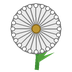
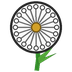
feat: 씨앗·새싹·잡초·민들레 그림을 잘 보이게 다시 그림
- 씨앗: 더 작게, 대각선으로 기운 모양
- 새싹: 흙 위의 밝은 초록 떡잎 두 장, 진한 테두리
- 잡초: 진한 올리브색 뾰족한 풀 덤불 (새싹과 한눈에 구분)
- 민들레: 테두리를 진하게 한 흰 솜털 뭉치
- README 그림 출처에 직접 제작한 그림 목록 갱신 (#7)

diff --git a/README.md b/README.md
@@ -20,5 +20,5 @@ mvn test
 ```
 
 ## 그림 출처
-- 식물 그림(`resources/plant/`, `seed.png`·`dandelion.png` 제외): [Twemoji](https://github.com/jdecked/twemoji) © Twitter, Inc and other contributors, [CC-BY 4.0](https://creativecommons.org/licenses/by/4.0/)
-- `seed.png`·`dandelion.png`: 팀에서 직접 제작
+- 식물 그림(`resources/plant/`, `seed.png`·`sprout.png`·`weed.png`·`dandelion.png` 제외): [Twemoji](https://github.com/jdecked/twemoji) © Twitter, Inc and other contributors, [CC-BY 4.0](https://creativecommons.org/licenses/by/4.0/)
+- `seed.png`·`sprout.png`·`weed.png`·`dandelion.png`: 팀에서 직접 제작
